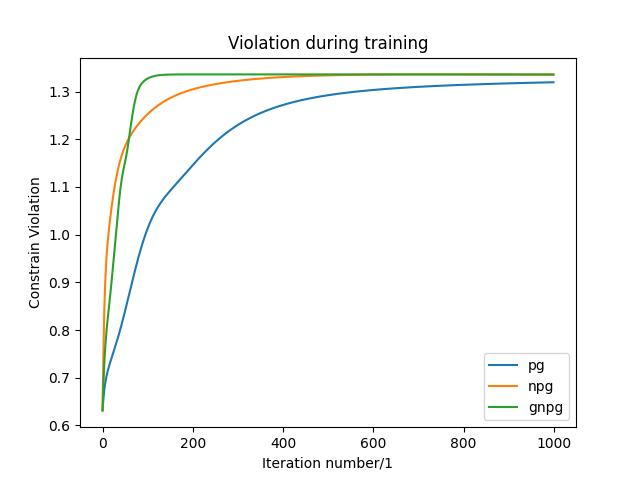
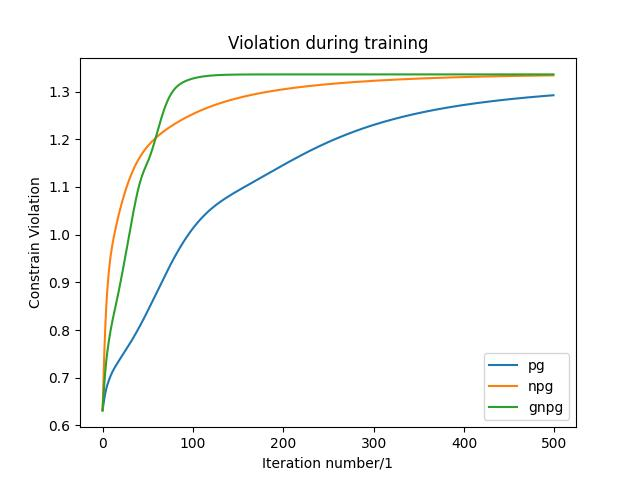
state action num

diff --git a/gym_env/pg_env.py b/gym_env/pg_env.py
@@ -1,73 +1,75 @@
 import gym
-import numpy as np
 import torch
 import torch.nn as nn
 import torch.optim as optim
+import torch.nn.functional as F
+import numpy as np
 
-# Neural network for the policy model
+# Define the policy network
 class PolicyNetwork(nn.Module):
-    def __init__(self, n_inputs, n_actions):
+    def __init__(self):
         super(PolicyNetwork, self).__init__()
-        self.fc = nn.Sequential(
-            nn.Linear(n_inputs, 64),
-            nn.ReLU(),
-            nn.Linear(64, n_actions),
-            nn.Softmax(dim=-1)
-        )
+        self.fc1 = nn.Linear(4, 128)
+        self.fc2 = nn.Linear(128, 2)
 
     def forward(self, x):
-        return self.fc(x)
+        x = F.relu(self.fc1(x))
+        x = F.softmax(self.fc2(x), dim=1)
+        return x
 
-# Function to select an action based on policy probabilities
 def select_action(policy_net, state):
     state = torch.from_numpy(state).float().unsqueeze(0)
     probs = policy_net(state)
     action = torch.multinomial(probs, 1).item()
     return action
 
-# Function to compute returns
-def compute_returns(rewards, gamma=0.99):
-    returns = []
-    G = 0
-    for r in reversed(rewards):
-        G = r + gamma * G
-        returns.insert(0, G)
+def compute_returns(rewards, gamma):
+    rewards = torch.Tensor(rewards)
+    returns = torch.zeros_like(rewards)
+
+    running_returns = 0
+
+    for t in reversed(range(0, len(rewards))):
+        running_returns = rewards[t] + gamma * running_returns 
+        returns[t] = running_returns
+
     return returns
 
-# Main training loop
-def train_policy_gradient(env_name='CartPole-v1', n_episodes=1000, gamma=0.99, lr=0.01):
+def train(env_name='CartPole-v1', n_episodes=500, gamma=0.99, learning_rate=0.01):
     env = gym.make(env_name)
-    n_inputs = env.observation_space.shape[0]
-    n_actions = env.action_space.n
-    policy_net = PolicyNetwork(n_inputs, n_actions)
-    optimizer = optim.Adam(policy_net.parameters(), lr=lr)
+    policy_net = PolicyNetwork()
+    optimizer = optim.Adam(policy_net.parameters(), lr=learning_rate)
 
     for episode in range(n_episodes):
-        state = env.reset()
-        saved_log_probs = []
-        rewards = []
-        done = False
+        state,_ = env.reset()
+        episode_states, episode_actions, episode_rewards = [], [], []
 
-        while not done:
+        while True:
             action = select_action(policy_net, state)
-            state, reward, done, _ = env.step(action)
-            saved_log_probs.append(torch.log(policy_net(torch.from_numpy(state).float())[action]))
-            rewards.append(reward)
+            next_state, reward, done, _,_ = env.step(action)
+            episode_states.append(state)
+            episode_actions.append(action)
+            episode_rewards.append(reward)
 
-        returns = compute_returns(rewards, gamma)
-        policy_loss = []
-        for log_prob, G in zip(saved_log_probs, returns):
-            policy_loss.append(-log_prob * G)
-        policy_loss = torch.cat(policy_loss).sum()
+            if done:
+                break
+            state = next_state
 
+        returns = compute_returns(episode_rewards, gamma)
         optimizer.zero_grad()
-        policy_loss.backward()
-        optimizer.step()
 
-        if episode % 100 == 0:
-            print(f'Episode {episode}/{n_episodes}: Total Reward: {sum(rewards)}')
+        states = torch.from_numpy(np.stack(episode_states)).float()
+        probs = policy_net(states)
+        m = torch.distributions.Categorical(probs)
+        loss = -m.log_prob(torch.tensor(episode_actions)) * returns
+        loss = loss.mean()
+        loss.backward()
+
+        optimizer.step()
+        if episode % 50 == 0:
+            print(f'Episode {episode}: Total Reward: {sum(episode_rewards)}')
 
     env.close()
 
 # Run the training
-train_policy_gradient()
+train()

diff --git a/random_env/pg_cmdp.py b/random_env/pg_cmdp.py
@@ -9,18 +9,22 @@ import time
 from env import Random_Env
 from agent import Agent
 
+from tqdm import tqdm
+
 
 
 if __name__ == '__main__':
+    num_state = 20
+    num_action = 10
     np.random.seed(10) 
-    rm_env = Random_Env(num_state=10,num_action=5)
+    rm_env = Random_Env(num_state=num_state,num_action=num_action)
     num_state = rm_env.num_state
     num_action = rm_env.num_action
     gamma = rm_env.gamma
 
-    PG_agent = Agent(type='pg')
-    NPG_agent = Agent(type='npg')
-    GNPG_agent = Agent(type='gnpg')
+    PG_agent = Agent(num_state=num_state,num_action=num_action,type='pg')
+    NPG_agent = Agent(num_state=num_state,num_action=num_action,type='npg')
+    GNPG_agent = Agent(num_state=num_state,num_action=num_action,type='gnpg')
 
     num_iter = 1000
     record_interval = 1
@@ -35,7 +39,7 @@ if __name__ == '__main__':
     start_time = time.time()
     agent_list = PG_agent,NPG_agent,GNPG_agent
     for agent in agent_list:
-        for k in range(num_iter):
+        for k in tqdm(range(num_iter)):
             ### prob is the probability for the policy
             prob = rm_env.theta_to_policy(agent.theta)
             qvals,q_constrain_vals = rm_env.get_q(prob)
@@ -48,6 +52,8 @@ if __name__ == '__main__':
             avg_reward = rm_env.ell(qvals,prob)
             agent.reward_list.append(avg_reward)
             agent.violation_list.append(violation.mean())
+
+            
     
 
     rm_env.plot_curve([agent.reward_list for agent in agent_list],
